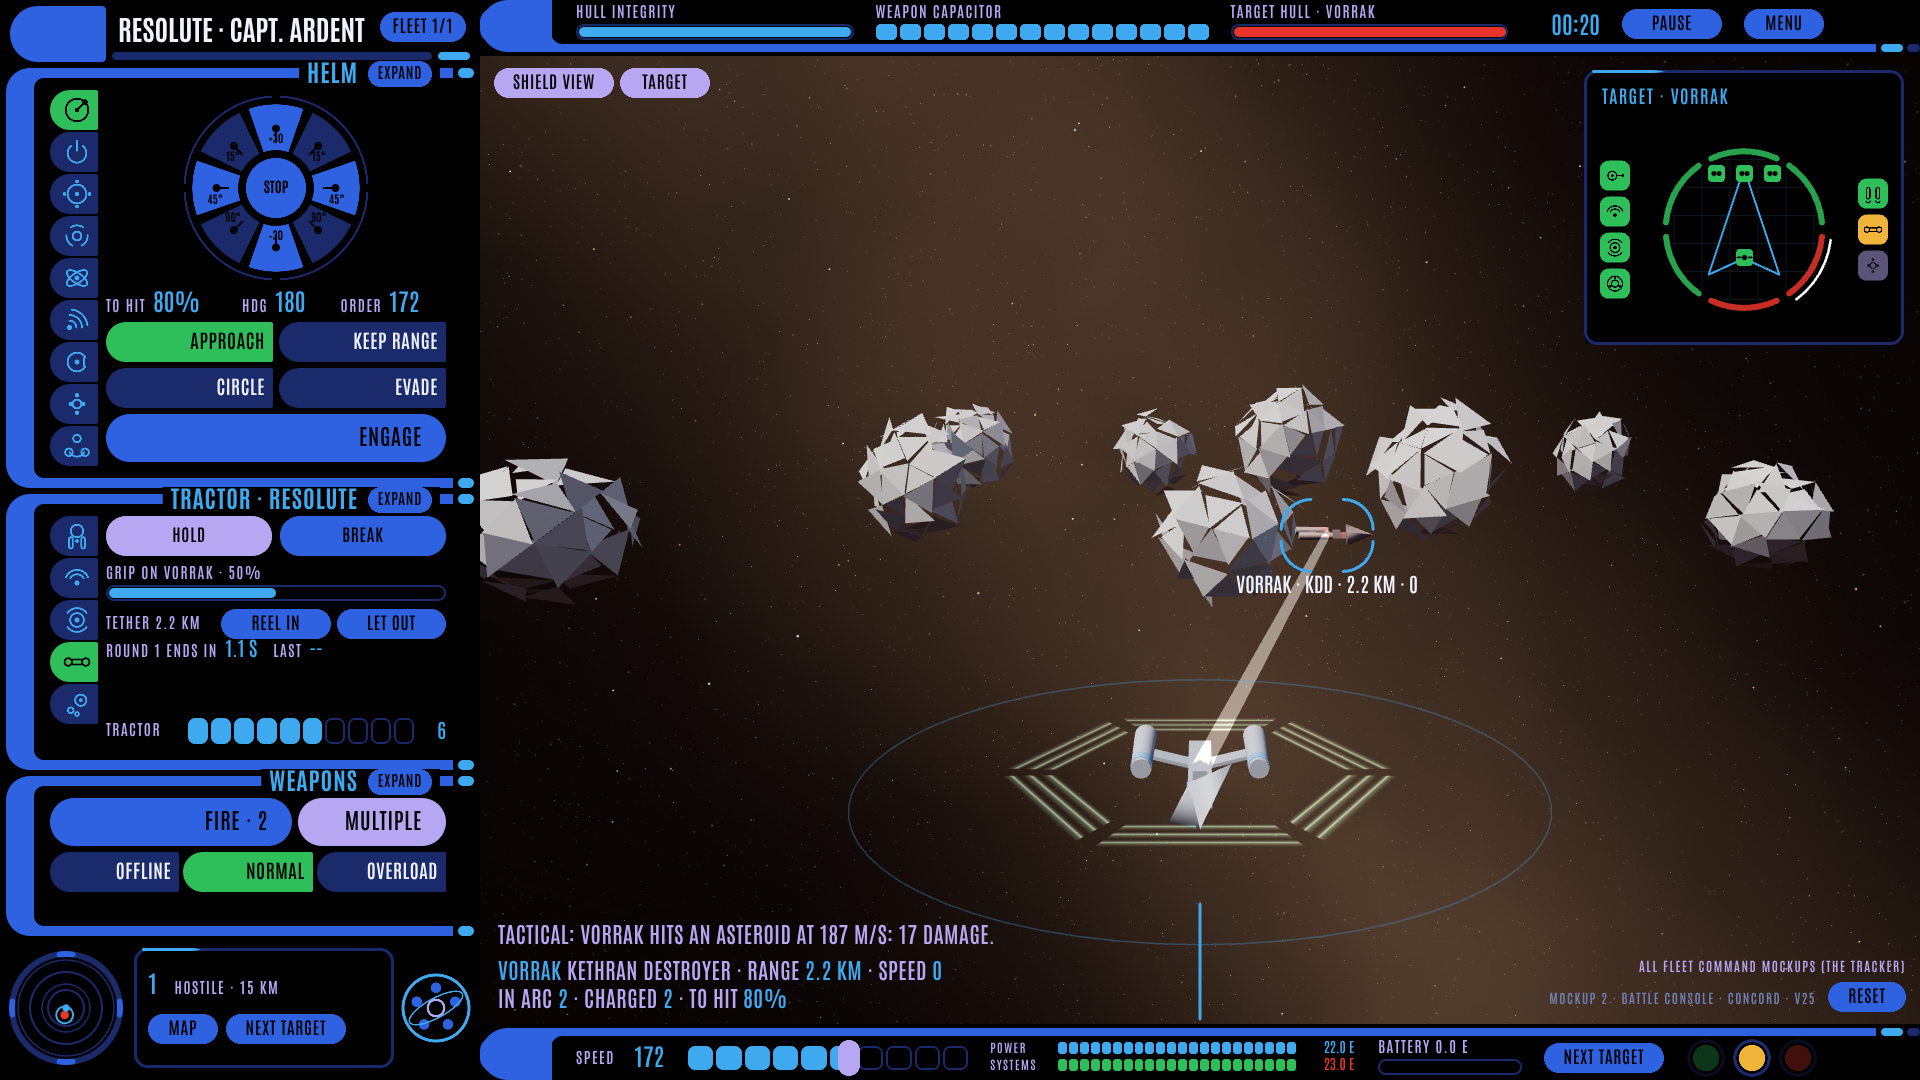
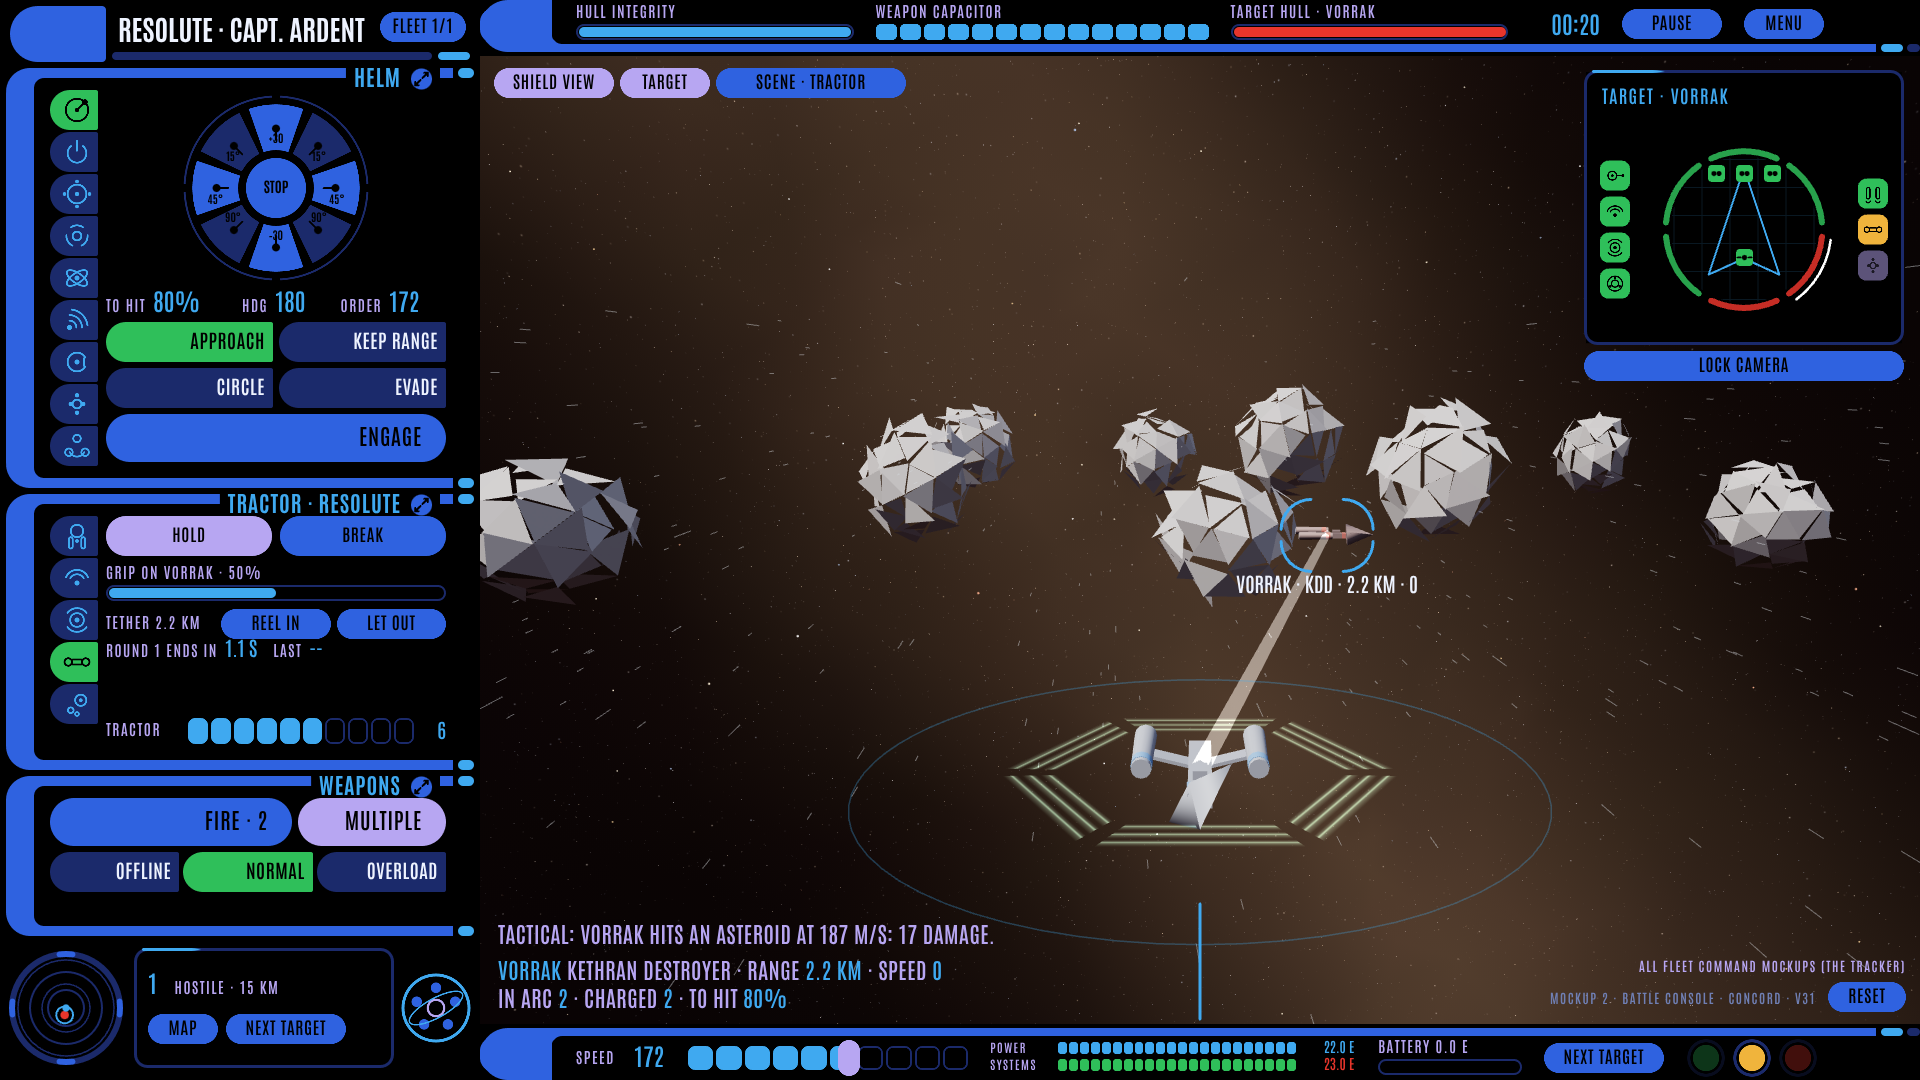
Battle console v31: steer by dragging the helm ring, right drag turns the camera, stars behind ships, space dust
The helm's click mark is gone; a drag on the ring steers, a right drag (or one finger
off the ring on touch) turns the camera; the sky renders in its own pass behind every
ship; space dust streaks along the ship's velocity.

Claude-Session: https://claude.ai/code/session_01RGPQuqAYNNJKpzbbbZ3BfB

diff --git a/docs/mockups/battle-console.html b/docs/mockups/battle-console.html
@@ -1113,8 +1113,8 @@ const A = {
   // right", after the-federation's combat_screen.gd _helm_click): the ship is ordered onto the bearing from itself to
   // the point clicked on the battle plane, so a click left of it comes left and a click right comes right, as far as
   // the point asks. It is the same heading order the pad's turn keys give; a click on the ship itself has no direction.
-  helmTo: (x, z) => { const s = W.player, dx = x - s.x, dz = z - s.z; if (Math.hypot(dx, dz) < 1.5) return; s.engaged = false; s.hOrder = Math.atan2(dx, -dz);
-    helmMark = { x, z, t: 1.2 }; say('Helm', `Come to ${String(Math.round(((s.hOrder / DEG) + 360) % 360)).padStart(3, '0')}.`); },
+  helmTo: (x, z, quiet) => { const s = W.player, dx = x - s.x, dz = z - s.z; if (Math.hypot(dx, dz) < 1.5) return; s.engaged = false; s.hOrder = Math.atan2(dx, -dz);
+    if (quiet) return; say('Helm', `Come to ${String(Math.round(((s.hOrder / DEG) + 360) % 360)).padStart(3, '0')}.`); },
   speedStep: (n) => { const s = W.player; s.engaged = false; s.vOrder = clamp(Math.round(s.vOrder / SPEED_PER_BOX_M_S + n) * SPEED_PER_BOX_M_S, -60, maxSpeed(s)); },
   setSpeed: (v) => { const s = W.player; s.engaged = false; s.vOrder = clamp(v, -60, maxSpeed(s)); },
   allStop: () => { W.player.engaged = false; W.player.vOrder = 0; },
@@ -1433,14 +1433,19 @@ function wireInput() {
     const [px, py] = refXY(e); PX = px; PY = py; const h = topAt(px, py);
     if (h) { e.stopPropagation(); e.preventDefault(); ACTIVE = h.id; HOT = h.id; if (h.drag) { DRAG = h; h.drag(px, py, true); } return; }
     if (!inView(px, py)) e.stopPropagation();
+    // a press (left button or a touch) on or near the helm ring steers: the ship's ordered heading follows the pointer
+    else if (e.button === 0 && !expanded && nearRing(e)) { STEER = true; down = null; e.stopPropagation(); e.preventDefault(); const q = planeAt(e); if (q) A.helmTo(q.x, q.z, true); }
   }, true);
   addEventListener('pointermove', (e) => {
     const [px, py] = refXY(e); PX = px; PY = py;
+    if (STEER) { const q = planeAt(e); if (q) A.helmTo(q.x, q.z, true); e.stopPropagation(); root.style.cursor = 'grabbing'; return; }
+    ringHot = inView(px, py) && !expanded && !topAt(px, py) && nearRing(e);
     if (DRAG) { DRAG.drag(px, py, false); e.stopPropagation(); return; }
     const h = topAt(px, py); HOT = h ? h.id : null;
-    root.style.cursor = h ? (h.cursor || (h.click || h.drag ? 'pointer' : 'default')) : '';
+    root.style.cursor = h ? (h.cursor || (h.click || h.drag ? 'pointer' : 'default')) : ringHot ? 'grab' : '';
   }, true);
   addEventListener('pointerup', (e) => {
+    if (STEER) { STEER = false; e.stopPropagation(); const s = W.player; say('Helm', `Come to ${String(Math.round(((s.hOrder / DEG) + 360) % 360)).padStart(3, '0')}.`); return; }
     const [px, py] = refXY(e), h = topAt(px, py), was = ACTIVE; ACTIVE = null;
     if (DRAG) { DRAG = null; e.stopPropagation(); return; }
     if (was) { e.stopPropagation(); if (h && h.id === was && h.click) h.click(px, py, e.button); }
@@ -2309,12 +2314,40 @@ const { makeSpace, parallaxStars, shipModel } = window.FCSpace(THREE, renderer, 
 const scene = new THREE.Scene();
 const camera = new THREE.PerspectiveCamera(50, 1, 0.1, 6000);
 const skyMain = makeSpace('ember', parallaxStars(new THREE.Vector3(0, 0, -40), 420, [[-70, -25, 500], [25, 70, 500]], 7));
-scene.add(skyMain);
+// The sky is drawn in its own pass before the battle, so stars always lie behind every ship (owner, 2026-11-02: "stars
+// should draw behind ship always btw, it doesnt make sense if they draw in front").
+const skyScene = new THREE.Scene(); skyScene.add(skyMain);
+// Space dust (owner: "we should also add space dust as it helps show motion as the ship moves"): faint motes in a box
+// round your ship, each drawn as a short streak along your velocity; the box wraps, so the field never ends. Being in
+// the battle pass, the motes pass in front of and behind ships as they really lie.
+const DUST = { count: 700, box_u: 60, height_u: 14, streak_s: 0.25, colour: 0xa8bcd8, opacity: 0.45 };
+const dust = (() => {
+  const R = rng(SCENARIO.seed + 11), base = new Float32Array(DUST.count * 3), pos = new Float32Array(DUST.count * 6);
+  for (let i = 0; i < DUST.count; i++) { base[i * 3] = R() * DUST.box_u; base[i * 3 + 1] = (R() - 0.5) * DUST.height_u; base[i * 3 + 2] = R() * DUST.box_u; }
+  const geo = new THREE.BufferGeometry(); geo.setAttribute('position', new THREE.BufferAttribute(pos, 3));
+  const m = new THREE.LineSegments(geo, new THREE.LineBasicMaterial({ color: DUST.colour, transparent: true, opacity: DUST.opacity, depthWrite: false }));
+  m.frustumCulled = false; scene.add(m);
+  return { base, pos, geo };
+})();
+// Every frame: each mote is placed in the box centred on your ship (wrapping), its streak drawn back along your velocity.
+function dustStep() {
+  const s = W.player, L = DUST.box_u, f = fwd(s.h), sp = (s.alive ? s.v : 0) / M_PER_U * DUST.streak_s, dx = f[0] * sp, dz = f[1] * sp, b = dust.base, q = dust.pos;
+  const wrapTo = (v, c) => c + ((((v - c) % L) + L * 1.5) % L) - L / 2;
+  for (let i = 0; i < DUST.count; i++) {
+    const x = wrapTo(b[i * 3], s.x), y = b[i * 3 + 1], z = wrapTo(b[i * 3 + 2], s.z), o = i * 6;
+    q[o] = x; q[o + 1] = y; q[o + 2] = z; q[o + 3] = x - dx - 0.04; q[o + 4] = y; q[o + 5] = z - dz - 0.04;
+  }
+  dust.geo.attributes.position.needsUpdate = true;
+}
 // three.js 0.147 uses the legacy light units: about pi times brighter than r155 and later for the same number.
 scene.add(new THREE.HemisphereLight(0x9fb4ff, 0x201010, 0.55));
 const sun = new THREE.DirectionalLight(0xfff0dd, 1.3); sun.position.set(-40, 60, 30); scene.add(sun);
 const controls = new THREE.OrbitControls(camera, renderer.domElement);
 controls.enablePan = false; controls.minDistance = 4; controls.maxDistance = 90; controls.enableDamping = true;
+// The camera turns on a right drag (owner, 2026-11-02: "otherwise I can pan stuff around using right click"); the left
+// button is the helm. One finger still turns it on a touch screen ("make sure that on mobile i can still rotate camera
+// by regular touch"), unless the touch starts on the helm ring.
+controls.mouseButtons = { LEFT: -1, MIDDLE: THREE.MOUSE.DOLLY, RIGHT: THREE.MOUSE.ROTATE }; controls.touches = { ONE: THREE.TOUCH.ROTATE, TWO: THREE.TOUCH.DOLLY_ROTATE };
 const MODELS = new Map();
 const glowTex = (() => { const c = paint(32, 32, (x) => { const g = x.createRadialGradient(16, 16, 0, 16, 16, 16); g.addColorStop(0, 'rgba(255,255,255,1)'); g.addColorStop(0.3, 'rgba(255,255,255,0.6)'); g.addColorStop(1, 'rgba(255,255,255,0)'); x.fillStyle = g; x.fillRect(0, 0, 32, 32); }); const t = new THREE.CanvasTexture(c); return t; })();
 // The 3D shield display (owner, 2026-11-01: "shield facing should be hexagons here", with the reference game's flat
@@ -2464,6 +2497,10 @@ function camLockStep(dt) {
   camYawVel = clamp(camYawVel + (w * w * d - 2 * w * camYawVel) * dt, -vmax, vmax);
   off.applyAxisAngle(new THREE.Vector3(0, 1, 0), camYawVel * dt); camera.position.copy(controls.target).add(off);
 }
+// Steering by the ring: the ring's radius in units and how near a press must land to grab it.
+const HELM_RING = { r_u: 4.5, grab_u: 1.6 };
+let STEER = false, ringHot = false;
+function nearRing(e) { const q = planeAt(e), s = W.player; if (!q || !s.alive) return false; return Math.abs(Math.hypot(q.x - s.x, q.z - s.z) - HELM_RING.r_u) <= HELM_RING.grab_u; }
 let down = null, helmMark = null, placingMine = false, raidSys = 'weapons', raidKind = 'shoot', invDest = null;
 // The squads the transport station sends: hit and run, and capture (per role).
 const raidPick = { marines: 2, demo: 0 }, capPick = { marines: 8, demo: 0, medics: 1, engineers: 1, hackers: 1, pilots: 1 };
@@ -2489,13 +2526,14 @@ function wireView() {
   renderer.domElement.oncontextmenu = (e) => e.preventDefault();
 }
 // The turn still to make (after the-federation's TurnArc): an arc on the plane round your ship from its heading to the
-// ordered heading, with a tick at the order, and a fading mark where the helm was last pointed.
+// ordered heading, with a tick at the order. (The mark where the helm was clicked is gone: owner, 2026-11-02, "should
+// get rid of plus sign".) The ring brightens under the pointer and while it is dragged to steer.
 function helmArc(vw, vh, s) {
   const scr = (x, z) => { const v = new THREE.Vector3(x, 0, z).project(camera); return v.z < 1 ? [(v.x + 1) / 2 * vw, (1 - v.y) / 2 * vh] : null; };
-  const R = 4.5, dh = wrap(s.hOrder - s.h), n = Math.max(2, Math.ceil(Math.abs(dh) / 0.08));
+  const R = HELM_RING.r_u, dh = wrap(s.hOrder - s.h), n = Math.max(2, Math.ceil(Math.abs(dh) / 0.08));
   const at = (h, r) => scr(s.x + Math.sin(h) * r, s.z - Math.cos(h) * r);
   // the helm ring, faint, so the arc reads as part of the ship
-  g.strokeStyle = CC.sky; g.lineWidth = 1.5; g.globalAlpha = 0.3; g.beginPath();
+  g.strokeStyle = CC.sky; g.lineWidth = ringHot || STEER ? 3 : 1.5; g.globalAlpha = ringHot || STEER ? 0.75 : 0.3; g.beginPath();
   for (let i = 0; i <= 72; i++) { const q = at(i / 72 * 2 * P, R); if (q) (i ? g.lineTo(q[0], q[1]) : g.moveTo(q[0], q[1])); }
   g.stroke(); g.globalAlpha = 1;
   if (Math.abs(dh) > 0.02) {
@@ -2511,11 +2549,6 @@ function helmArc(vw, vh, s) {
     for (let i = 0; i <= 96; i++) { const q = at(i / 96 * 2 * P, Rm); if (q) (i ? g.lineTo(q[0], q[1]) : g.moveTo(q[0], q[1])); }
     g.stroke(); g.setLineDash([]);
     LBL(`Click to place a mine · reach ${km(TRANSPORT.range_km)}`, vw / 2, 92, 0, CC.caution, 'center', 18);
-  }
-  if (helmMark && helmMark.t > 0) {
-    const m = scr(helmMark.x, helmMark.z);
-    if (m) { g.strokeStyle = CC.sky; g.globalAlpha = Math.min(1, helmMark.t); g.lineWidth = 2; g.beginPath(); g.arc(m[0], m[1], 10 + (1.2 - helmMark.t) * 14, 0, 2 * P); g.stroke();
-      g.beginPath(); g.moveTo(m[0] - 6, m[1]); g.lineTo(m[0] + 6, m[1]); g.moveTo(m[0], m[1] - 6); g.lineTo(m[0], m[1] + 6); g.stroke(); g.globalAlpha = 1; }
   }
 }
 function insetRect() { const w = Math.min(320, VIEW[2] * 0.3), h = w * 0.86; return [VIEW[2] - w - 16, 14, w, h]; }
@@ -2576,7 +2609,7 @@ function uiView() {
     button('v.camlock', bx, by + ir[3] + 6, ir[2], 30, camLock ? 'Camera locked' : 'Lock camera', A.camLock, { sel: () => camLock, center: true });
   }
   if (lock) button('v.lock', lock[0], lock[1], 140, 30, 'Lock target', () => A.lock(lock[2]), { center: true });
-  LBL('Mockup 2 · Battle console · Concord · v30', vx + vw - 104, vy + vh - 20, 0, '#6f7fb4', 'right', 13);
+  LBL('Mockup 2 · Battle console · Concord · v31', vx + vw - 104, vy + vh - 20, 0, '#6f7fb4', 'right', 13);
   button('v.reset', vx + vw - 92, vy + vh - 42, 78, 30, 'Reset', A.reset, { center: true });
   if (sceneOpen) {
     // a click anywhere else closes the list
@@ -2643,7 +2676,8 @@ function render(dt) {
   syncScene(dt);
   const w = VIEW[2] * S, h = VIEW[3] * S;
   renderer.info.reset(); renderer.setScissorTest(false); renderer.setViewport(0, 0, w, h); renderer.clear();
-  skyMain.userData.update(camera, dt);
+  skyMain.userData.update(camera, dt); dustStep();
+  renderer.render(skyScene, camera); renderer.clearDepth();
   renderer.render(scene, camera);
   lastInfo = { triangles: renderer.info.render.triangles, calls: renderer.info.render.calls };
   drawUI();
@@ -2656,7 +2690,6 @@ let acc = 0, last = performance.now(), frozen = false;
 function frame(now) {
   const dt = Math.min(0.1, (now - last) / 1000); last = now;
   if (!paused && !menuOpen && !frozen) { acc += dt; while (acc >= DT) { step(); acc -= DT; } }
-  if (helmMark && !frozen) helmMark.t -= dt;
   render(frozen ? 0 : dt);
   requestAnimationFrame(frame);
 }

diff --git a/docs/mockups/tracker.html b/docs/mockups/tracker.html
@@ -111,7 +111,7 @@ const MOCKUPS = [
     url: 'https://claude.ai/artifact/UBbAouwAU3JvcbGf6MhzLt', published: '2026-10-30', version: 5,
     summary: 'Main menu, skirmish (scenario, point budget, fleet and loadout), the campaign hex map with standees, port panels and missions, deploy, a stand-in battle, results, and back to the map.' },
   { id: 'M2', title: 'In-game UI', change: 'battle-console', page: 'docs/mockups/battle-console.html',
-    url: 'https://claude.ai/artifact/9yertq3bYQRmFiDE7N9eBs', published: '2026-11-02', version: 30,
+    url: 'https://claude.ai/artifact/9yertq3bYQRmFiDE7N9eBs', published: '2026-11-02', version: 31,
     summary: 'The battle console in the Concord skin around a live stand-in battle, desktop first: nine stations and five ship pages on narrow columns of icon tabs named on hover, the ship systems display, weapons, radar and tactical map, a speed handle, Power over Systems with the battery, and the power station\'s Reactor mode: a diagram of the core, coils and coolant loops worked by hand, with a meltdown to avoid. Every panel works and expands.' },
   { id: 'M3', title: 'Look dev', change: 'look-dev', page: 'docs/mockups/look-dev.html',
     url: '', published: '', version: 0,

diff --git a/openspec/changes/battle-console/design.md b/openspec/changes/battle-console/design.md
@@ -246,11 +246,13 @@ The mockup takes the-federation's way, on the buttons it already has:
 | Left click on empty space | **The helm**: the ship comes onto the bearing of the point clicked (left of the ship comes left, right comes right, as far as the point asks); the same heading order as the pad's turn keys, which also takes the ship off autopilot; the log says "Come to 307" |
 | Left click on a ship | Focuses it (unchanged) |
 | Right click on a ship | Locks it (unchanged) |
-| Left drag | Orbits the camera (unchanged; a move of over 6 px is a drag, not a click) |
+| Left drag on or near the helm ring (within 160 m of its 450 m radius) | **Steers**: the ordered heading follows the pointer round the ring (owner, 2026-11-02: "I want to be able to click and drag to rotate ship. clicking near the ring should rotate my ship"); the ring brightens under the pointer, with a grab cursor |
+| Right drag | Turns the camera ("otherwise I can pan stuff around using right click"); a left drag elsewhere does nothing to the camera |
+| One finger (touch) | On the ring, steers; anywhere else, turns the camera ("make sure that on mobile i can still rotate camera by regular touch"); two fingers zoom |
 | A click on your own ship | Nothing: it has no direction |
 
 On the ship a faint ring (450 m) carries the **turn arc** from the heading to the ordered heading, with a tick at the
-order, and a ring marks the point clicked for 1.2 s.
+order. The mark that showed where the helm was clicked is gone (owner, 2026-11-02: "should get rid of plus sign").
 
 ## 4a. Mines and the tractor contest
 
@@ -283,6 +285,15 @@ beam does take 10 seconds to power up".
 The energy in the tractor is drawn every second like any other system, so holding someone, or resisting, costs weapons or
 shields. In the 3D view the beam is a pale line from holder to held, brighter as the grip tightens. An enemy holds you
 only by turning your beam; whether enemies should start a hold on their own is B11.
+
+## 4g. Stars behind ships, and space dust (version 31)
+
+Owner, 2026-11-02: "stars should draw behind ship always btw, it doesnt make sense if they draw in front. we should also
+add space dust as it helps show motion as the ship moves". The sky (nebula, far stars and the parallax stars) is drawn in
+its own pass first and the depth cleared, so no star ever lies over a ship. **Space dust**: 700 faint motes in a box 6 km
+across and 1.4 km deep round your ship, wrapping so the field never ends, each drawn as a short streak back along your
+velocity (a quarter of a second of travel), so speed and heading read even against a still sky; the motes are in the
+battle pass, so they pass in front of and behind ships as they lie. (Mockup 3 sets the final look.)
 
 ## 4f. The expand key (version 28)
 

diff --git a/docs/artifacts/battle-console/README.md b/docs/artifacts/battle-console/README.md
@@ -48,3 +48,4 @@
 - Version 28 published 2026-11-02, version id `1793580890-bd74`: the panels' Expand pill replaced by a small round key with diagonal arrows (pointing in to return), names on hover.
 - Version 29 published 2026-11-02, version id `1793581929-1c47`: the warp drive (Power, Warp mode): nacelles with draw and damage, banks, course plot, six risk factors and the jump risk, the safety override near a neutron star, the jump and its mishaps; a Warp test scene (change `warp`).
 - Version 30 published 2026-11-02, version id `1793582380-60b2`: panel titles' black plate starts at the frame's top edge (no longer cutting the panel above); expand key 20 % smaller (21 px).
+- Version 31 published 2026-11-02, version id `1793583166-34de`: the click mark (blue plus) removed; drag on or near the helm ring to steer; right drag turns the camera; one finger turns it on touch (or steers from the ring); the sky drawn behind every ship; space dust streaking with your velocity.

diff --git a/mockup-work.md b/mockup-work.md
@@ -22,7 +22,7 @@ account and every link here is updated.
 | # | Mockup | Stage | OpenSpec change | Page | Link |
 |---|---|---|---|---|---|
 | 1 | Primary game flow | Drafted (2026-10-30, v5) | `game-flow` | `docs/mockups/game-flow.html` | https://claude.ai/artifact/UBbAouwAU3JvcbGf6MhzLt |
-| 2 | In-game UI | Drafted (2026-11-02, v30) | `battle-console` | `docs/mockups/battle-console.html` | https://claude.ai/artifact/9yertq3bYQRmFiDE7N9eBs |
+| 2 | In-game UI | Drafted (2026-11-02, v31) | `battle-console` | `docs/mockups/battle-console.html` | https://claude.ai/artifact/9yertq3bYQRmFiDE7N9eBs |
 | 3 | Look dev | Listed | `look-dev` (to write) | `docs/mockups/look-dev.html` | |
 | 4 | Console skins | Drafted (2026-10-31, v25) | `console-skins` | `docs/mockups/console-skins.html` | https://claude.ai/artifact/UTpgsPvZJrLfkEUmJN7CVb |
 
